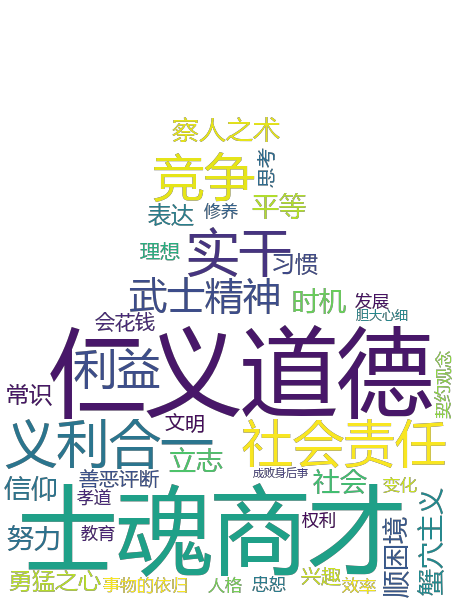
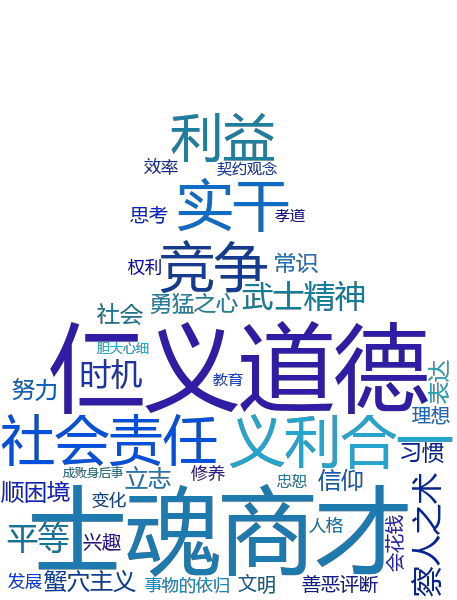
fix

Changed region(s): [[0.0, 0.18, 1.0, 1.0]]

diff --git a/wordcloud/generate.py b/wordcloud/generate.py
@@ -1,0 +1,93 @@
+# -*- coding: utf-8 -*-
+"""
+Created on Fri Sep 29 13:14:22 2019
+        self.
+@author: 雁陎
+"""
+
+from wordcloud import (WordCloud, ImageColorGenerator)
+from matplotlib import pyplot as plt
+import numpy as np
+from PIL import Image
+from random import randint
+import jieba
+
+lines=[]
+with open('config.txt','r') as handler:
+    lines = handler.readlines()
+
+a,b = map(int,lines[3].split(','))  # 颜色h的范围
+bgcolor = lines[7].strip('\n').lower()  # 背景颜色
+if bgcolor == 'none':
+    bgcolor = None
+w,h = map(int,lines[9].split(',')) # 云字图尺寸
+
+
+def font_select():
+    font_input = lines[5].strip('\n')
+    font_dict = {'微软雅黑':r'\msyh.ttc','楷体':r'\simkai.ttf','宋体':r'\simsun.ttc',
+             '仿宋':r'\simfang.ttf','隶书':r'\SIMLI.TTF','Times New Roman':r'times.ttf'}
+    return r'C:\Windows\Fonts' + font_dict[font_input]   # 字体
+
+
+def shape_judge():  # 判断用户选择的形状
+    cloud_shape = lines[11].strip('\n').lower()  # 云字图形状
+    if cloud_shape == 'rectangle':
+        mask = None
+    elif cloud_shape == 'round':
+        x,y = np.ogrid[:w,:w]
+        mask = 255*((x-w/2) ** 2 + (y-w/2) ** 2 > 4.2*w ** 2).astype(int) 
+        # 以(w/2,w/2)为圆心，半径为4.2*w的圆，255不知道干什么的，但是必须有
+    else:
+        mask = np.array(Image.open(r"shape.jpg"))
+    return mask
+
+def random_color_func(word=None, font_size=None, position=None,  orientation=None, font_path=None, random_state=None):
+    h,s,l = randint(a,b),randint(70,100),randint(28,47)
+        # h即表示颜色的取值范围，我们可以谷歌colour picker 查看各颜色的取值范围对应的h值
+        # 然后在参数中设置 color_func = random_color_func即可令字按照该范围设定颜色
+    return "hsl({}, {}%, {}%)".format(h, s, l)
+
+def color_judge():   
+    font_color_input = int(lines[1].strip('\n'))
+    if font_color_input == 1:
+        random_color = ImageColorGenerator(np.array(Image.open(r"shape.jpg")))        
+        #字体颜色为背景图片的颜色
+    else:
+        random_color =random_color_func
+    return random_color
+    
+def segment_words(text):
+    article_contents = ""
+    #使用jieba进行分词
+    words = jieba.cut(text,cut_all=False)
+    for word in words:
+        #使用空格来分割词，否则词组仍是一起的
+        article_contents += word+" "
+    return article_contents
+        
+def segment_judge():
+    segment_mode = int(lines[13].strip('\n'))
+    text=open(u'word.txt','r').read().lower()
+    if segment_mode == 1:
+        return text
+    else:
+        return segment_words(text)
+
+stopwords = {'.',',','"',':','(',')','.','。','（','）','[',']','”','“','\n','\t',' '}
+
+charnum = int(lines[15].strip('\n'))
+
+wordcloud= WordCloud(font_path=font_select(), background_color=bgcolor, mode="RGBA", max_words=charnum, 
+                     color_func = color_judge(),mask= shape_judge(),width=w, 
+                     height=h,stopwords = stopwords,margin=2).generate(segment_judge())
+
+# 你可以通过font path参数来设置字体集
+# width， height， margin可以设置图片属性
+# backgroud_color = "black"，可以设定背景颜色，默认黑色，如果想要设定透明的可以按照上面代码做
+# stopwords 停用词，即云字图中不展示的词组，如各种标点、换行。
+ 
+plt.axis("off")  # 是否绘制坐标轴
+plt.show()
+wordcloud.to_file('wordcloud.png')
+print('词云图已生成')
